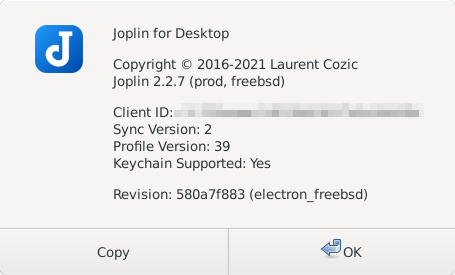
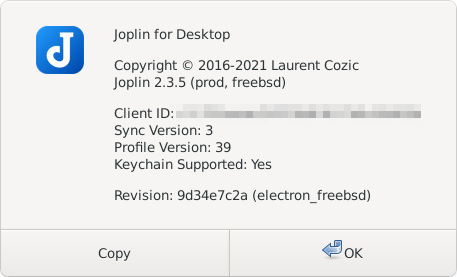
Update target Joplin version to 2.3.5

diff --git a/playing-with-bsd/application/howto-use-joplin-on-freebsd/index.html b/playing-with-bsd/application/howto-use-joplin-on-freebsd/index.html
@@ -8,12 +8,12 @@
   <meta name="twitter:title" content="How to use Joplin desktop app on FreeBSD - genneko" />
   <meta name="description" content="This is a quick note on how I build and use the latest Joplin desktop app on FreeBSD.
 For my initial exploration of Joplin on FreeBSD, please refer to the previous post.
-Target Version The current target version of this article is Joplin Desktop release v2.2.7 (Aug 2021).
-I confirmed that the app could be built using my fork at the tag freebsd-v2.2.7. Building Joplin I take the following steps to build Joplin desktop on my FreeBSD 12.">
+Target Version The current target version of this article is Joplin Desktop release v2.3.5 (Aug 2021).
+I confirmed that the app could be built using my fork at the tag freebsd-v2.3.5. Building Joplin I take the following steps to build Joplin desktop on my FreeBSD 12.">
   <meta property="og:description" content="This is a quick note on how I build and use the latest Joplin desktop app on FreeBSD.
 For my initial exploration of Joplin on FreeBSD, please refer to the previous post.
-Target Version The current target version of this article is Joplin Desktop release v2.2.7 (Aug 2021).
-I confirmed that the app could be built using my fork at the tag freebsd-v2.2.7. Building Joplin I take the following steps to build Joplin desktop on my FreeBSD 12.">
+Target Version The current target version of this article is Joplin Desktop release v2.3.5 (Aug 2021).
+I confirmed that the app could be built using my fork at the tag freebsd-v2.3.5. Building Joplin I take the following steps to build Joplin desktop on my FreeBSD 12.">
   <meta name="twitter:description" content="This is a quick note on how I build and use the latest Joplin desktop app on FreeBSD.
 For my initial exploration of Joplin on FreeBSD, please refer to the previous post.
 Target Version The current …">
@@ -60,7 +60,7 @@ Target Version The current …">
       <ul class="article-meta">
         <li class="article-meta-date"><time>2020-01-15</time>
         
-        <span class="updated">Update: 2021-08-14</span>
+        <span class="updated">Update: 2021-08-18</span>
         
         </li>
         <li class="article-meta-tags">
@@ -103,8 +103,8 @@ Target Version The current …">
       <p>This is a quick note on how I build and use the latest Joplin desktop app on FreeBSD.</p>
 <p>For my initial exploration of Joplin on FreeBSD, please refer to the <a href="https://genneko.github.io/playing-with-bsd/application/joplin-on-freebsd">previous post</a>.</p>
 <h2 id="target-version">Target Version</h2>
-<p>The current target version of this article is Joplin Desktop release v2.2.7 (Aug 2021).<br>
-I confirmed that the app could be built using my fork at the tag <a href="https://github.com/genneko/joplin/releases/tag/freebsd-v2.2.7">freebsd-v2.2.7</a>.
+<p>The current target version of this article is Joplin Desktop release v2.3.5 (Aug 2021).<br>
+I confirmed that the app could be built using my fork at the tag <a href="https://github.com/genneko/joplin/releases/tag/freebsd-v2.3.5">freebsd-v2.3.5</a>.
 <img src="https://genneko.github.io/images/howto-use-joplin-on-freebsd/JoplinVersion.png" alt="Joplin Version"></p>
 <h2 id="building-joplin">Building Joplin</h2>
 <p>I take the following steps to build Joplin desktop on my FreeBSD 12.2-RELEASE system (with XFCE4 desktop).</p>
@@ -137,8 +137,8 @@ git checkout electron_freebsd
 </code></pre><blockquote>
 <p><strong>NOTE</strong><br>
 If the head of the branch cannot be built (it occurs from time to time), please try the tagged version which I confirmed to be built.<br>
-As of 14 Aug 2021, the latest confirmed tag is <a href="https://github.com/genneko/joplin/releases/tag/freebsd-v2.2.7">freebsd-v2.2.7</a> and it can be checked out as follows:</p>
-<pre><code>git checkout freebsd-v2.2.7
+As of 18 Aug 2021, the latest confirmed tag is <a href="https://github.com/genneko/joplin/releases/tag/freebsd-v2.3.5">freebsd-v2.3.5</a> and it can be checked out as follows:</p>
+<pre><code>git checkout freebsd-v2.3.5
 </code></pre></blockquote>
 </li>
 <li>
@@ -279,6 +279,7 @@ I changed selector from &lsquo;.ace_editor&rsquo; to &lsquo;div.ace_editor&rsquo
 <li>2021-02-03: Update the target version to 1.7.10.</li>
 <li>2021-06-30: Update the target version to 2.1.7.</li>
 <li>2021-08-14: Update the target version to 2.2.7.</li>
+<li>2021-08-18: Update the target version to 2.3.5.</li>
 </ul>
 <section class="footnotes" role="doc-endnotes">
 <hr>

diff --git a/playing-with-bsd/index.html b/playing-with-bsd/index.html
@@ -197,7 +197,7 @@ Assumptions  The host is a graphical desktop workstation running FreeBSD 12.
         <ul class="article-meta">
           <li class="article-meta-date"><time>2020-01-15</time>
           
-          <span class="updated">Update: 2021-08-14</span>
+          <span class="updated">Update: 2021-08-18</span>
           
           </li>
           <li class="article-meta-tags">
@@ -228,8 +228,8 @@ Assumptions  The host is a graphical desktop workstation running FreeBSD 12.
         <div class="article-content">
           This is a quick note on how I build and use the latest Joplin desktop app on FreeBSD.
 For my initial exploration of Joplin on FreeBSD, please refer to the previous post.
-Target Version The current target version of this article is Joplin Desktop release v2.2.7 (Aug 2021).
-I confirmed that the app could be built using my fork at the tag freebsd-v2.2.7. Building Joplin I take the following steps to build Joplin desktop on my FreeBSD 12.
+Target Version The current target version of this article is Joplin Desktop release v2.3.5 (Aug 2021).
+I confirmed that the app could be built using my fork at the tag freebsd-v2.3.5. Building Joplin I take the following steps to build Joplin desktop on my FreeBSD 12.
         </div>
         <div class="article-readmore"><a href="https://genneko.github.io/playing-with-bsd/application/howto-use-joplin-on-freebsd/">Read more...</a></div>
         <div class="article-floatclear"></div>

diff --git a/tags/application/index.html b/tags/application/index.html
@@ -101,7 +101,7 @@ Assumptions  The host is a graphical desktop workstation running FreeBSD 12.
         <ul class="article-meta">
           <li class="article-meta-date"><time>2020-01-15</time>
           
-          <span class="updated">Update: 2021-08-14</span>
+          <span class="updated">Update: 2021-08-18</span>
           
           </li>
           <li class="article-meta-tags">
@@ -132,8 +132,8 @@ Assumptions  The host is a graphical desktop workstation running FreeBSD 12.
         <div class="article-content">
           This is a quick note on how I build and use the latest Joplin desktop app on FreeBSD.
 For my initial exploration of Joplin on FreeBSD, please refer to the previous post.
-Target Version The current target version of this article is Joplin Desktop release v2.2.7 (Aug 2021).
-I confirmed that the app could be built using my fork at the tag freebsd-v2.2.7. Building Joplin I take the following steps to build Joplin desktop on my FreeBSD 12.
+Target Version The current target version of this article is Joplin Desktop release v2.3.5 (Aug 2021).
+I confirmed that the app could be built using my fork at the tag freebsd-v2.3.5. Building Joplin I take the following steps to build Joplin desktop on my FreeBSD 12.
         </div>
         <div class="article-readmore"><a href="https://genneko.github.io/playing-with-bsd/application/howto-use-joplin-on-freebsd/">Read more...</a></div>
         <div class="article-floatclear"></div>

diff --git a/tags/freebsd/index.html b/tags/freebsd/index.html
@@ -186,7 +186,7 @@ Assumptions  The host is a graphical desktop workstation running FreeBSD 12.
         <ul class="article-meta">
           <li class="article-meta-date"><time>2020-01-15</time>
           
-          <span class="updated">Update: 2021-08-14</span>
+          <span class="updated">Update: 2021-08-18</span>
           
           </li>
           <li class="article-meta-tags">
@@ -217,8 +217,8 @@ Assumptions  The host is a graphical desktop workstation running FreeBSD 12.
         <div class="article-content">
           This is a quick note on how I build and use the latest Joplin desktop app on FreeBSD.
 For my initial exploration of Joplin on FreeBSD, please refer to the previous post.
-Target Version The current target version of this article is Joplin Desktop release v2.2.7 (Aug 2021).
-I confirmed that the app could be built using my fork at the tag freebsd-v2.2.7. Building Joplin I take the following steps to build Joplin desktop on my FreeBSD 12.
+Target Version The current target version of this article is Joplin Desktop release v2.3.5 (Aug 2021).
+I confirmed that the app could be built using my fork at the tag freebsd-v2.3.5. Building Joplin I take the following steps to build Joplin desktop on my FreeBSD 12.
         </div>
         <div class="article-readmore"><a href="https://genneko.github.io/playing-with-bsd/application/howto-use-joplin-on-freebsd/">Read more...</a></div>
         <div class="article-floatclear"></div>

diff --git a/tags/font/index.html b/tags/font/index.html
@@ -51,7 +51,7 @@
         <ul class="article-meta">
           <li class="article-meta-date"><time>2020-01-15</time>
           
-          <span class="updated">Update: 2021-08-14</span>
+          <span class="updated">Update: 2021-08-18</span>
           
           </li>
           <li class="article-meta-tags">
@@ -82,8 +82,8 @@
         <div class="article-content">
           This is a quick note on how I build and use the latest Joplin desktop app on FreeBSD.
 For my initial exploration of Joplin on FreeBSD, please refer to the previous post.
-Target Version The current target version of this article is Joplin Desktop release v2.2.7 (Aug 2021).
-I confirmed that the app could be built using my fork at the tag freebsd-v2.2.7. Building Joplin I take the following steps to build Joplin desktop on my FreeBSD 12.
+Target Version The current target version of this article is Joplin Desktop release v2.3.5 (Aug 2021).
+I confirmed that the app could be built using my fork at the tag freebsd-v2.3.5. Building Joplin I take the following steps to build Joplin desktop on my FreeBSD 12.
         </div>
         <div class="article-readmore"><a href="https://genneko.github.io/playing-with-bsd/application/howto-use-joplin-on-freebsd/">Read more...</a></div>
         <div class="article-floatclear"></div>

diff --git a/tags/installation/index.html b/tags/installation/index.html
@@ -51,7 +51,7 @@
         <ul class="article-meta">
           <li class="article-meta-date"><time>2020-01-15</time>
           
-          <span class="updated">Update: 2021-08-14</span>
+          <span class="updated">Update: 2021-08-18</span>
           
           </li>
           <li class="article-meta-tags">
@@ -82,8 +82,8 @@
         <div class="article-content">
           This is a quick note on how I build and use the latest Joplin desktop app on FreeBSD.
 For my initial exploration of Joplin on FreeBSD, please refer to the previous post.
-Target Version The current target version of this article is Joplin Desktop release v2.2.7 (Aug 2021).
-I confirmed that the app could be built using my fork at the tag freebsd-v2.2.7. Building Joplin I take the following steps to build Joplin desktop on my FreeBSD 12.
+Target Version The current target version of this article is Joplin Desktop release v2.3.5 (Aug 2021).
+I confirmed that the app could be built using my fork at the tag freebsd-v2.3.5. Building Joplin I take the following steps to build Joplin desktop on my FreeBSD 12.
         </div>
         <div class="article-readmore"><a href="https://genneko.github.io/playing-with-bsd/application/howto-use-joplin-on-freebsd/">Read more...</a></div>
         <div class="article-floatclear"></div>

diff --git a/index.html b/index.html
@@ -66,7 +66,7 @@
               
               <li><time>2020-01-15</time> - <a href="https://genneko.github.io/playing-with-bsd/application/howto-use-joplin-on-freebsd/">How to use Joplin desktop app on FreeBSD</a>
                   
-                  <span class="updated">Update: 2021-08-14</span>
+                  <span class="updated">Update: 2021-08-18</span>
                   
               
               <li><time>2019-11-17</time> - <a href="https://genneko.github.io/playing-with-bsd/storage/expanding-zfs-on-geli/">Expanding a GELI-encrypted ZFS pool</a>
